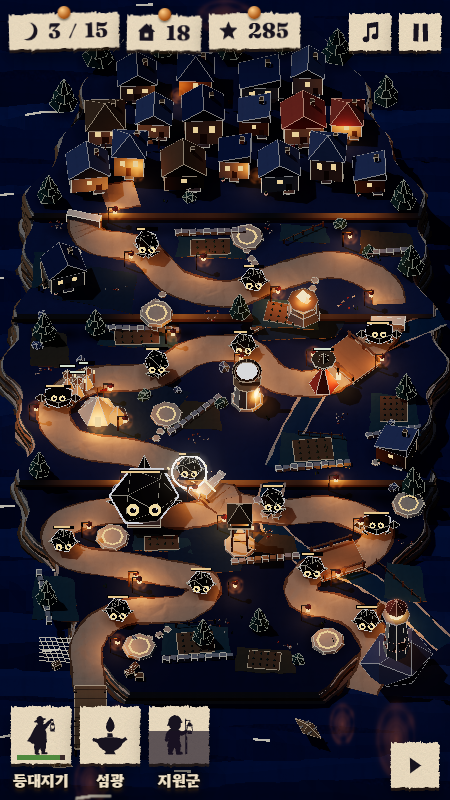
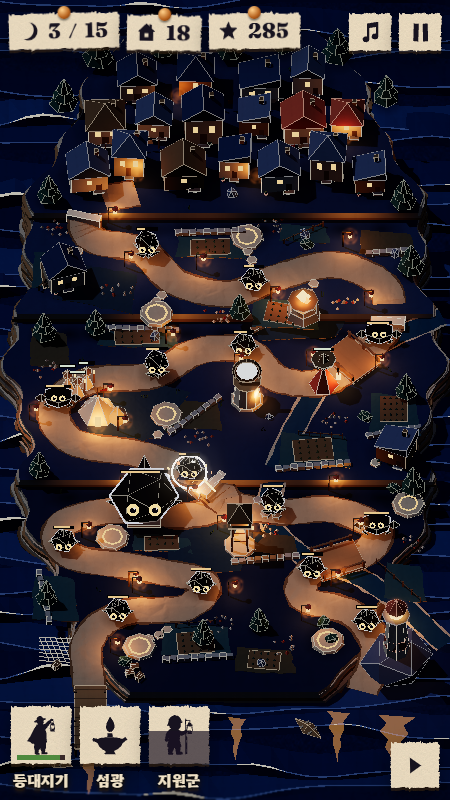
Stage 1 pass 3b: sea reads as stacked folded strips, tapered crests, sliver reflections, larger flowers and stepping stones

diff --git a/src/board.js b/src/board.js
@@ -116,8 +116,8 @@ export async function createStage(frame, SHAPES) {
     for (let i = 1; i < 6; i++) piece(G.box(0.02, 0.2 + (i % 2) * 0.06, 0.2), [C.cream, C.verm, C.creamD][i % 3], x0 + (x1 - x0) * i / 6, y - 0.12, z0 + (z1 - z0) * i / 6, { r: [0, ry, 0], fold: false }); }
   for (const [x, z] of [[-3.6, -13.6], [1.3, -13.5], [4.9, -15.5], [-1.9, -17.6]]) lamp(x, hAt(z) + 0.8, z, 3.4, 4.2);                                         // window light on the village streets
   for (const [x, z, s] of [[-7.2, -12.9, 1.1], [7.3, -12.6, 1.2], [-6.6, -17.6, 1.3], [6.6, -17.9, 1.2], [-5.2, -19.9, 1.4], [0.2, -20.3, 1.3], [4.6, -20.1, 1.4], [-2.6, -20.4, 1.2], [2.4, -20.6, 1.1], [-7.4, -6.6, 1.1], [7.6, -9.6, 1.2], [-7.6, 0.4, 1.0], [7.7, 0.9, 1.1], [-7.3, 6.6, 1.0], [1.4, 7.9, 0.9], [-0.9, 8.6, 1.0], [7.4, -3.6, 1.0], [-1.9, 5.9, 0.9], [0.6, -7.3, 1.0], [-5.3, -6.9, 1.0]]) tree(x, z, s);
-  const stones = (x0, z0, x1, z1) => { const n = Math.round(Math.hypot(x1 - x0, z1 - z0) / 0.42); for (let i = 0; i <= n; i++) { const x = x0 + (x1 - x0) * i / n + (r0() - 0.5) * 0.12, z = z0 + (z1 - z0) * i / n + (r0() - 0.5) * 0.12; if (nearRoad(x, z) > 0.7) piece(G.cyl(0.15, 0.17, 0.05, 6), C.creamD, x, hAt(z) + 0.03, z, { r: [0, r0() * 3, 0], cast: false, crumple: 0.02 }); } };
-  const flowers = (x, z) => { if (nearRoad(x, z) < 1.0) return; for (let i = 0; i < 9; i++) { const a = r0() * 6.283, d = r0() * 0.5; piece(G.oct(0.055), [C.creamD, C.verm, C.cream][i % 3], x + Math.cos(a) * d, hAt(z) + 0.07, z + Math.sin(a) * d * 0.8, { fold: false, cast: false, crumple: 0 }); } };
+  const stones = (x0, z0, x1, z1) => { const n = Math.round(Math.hypot(x1 - x0, z1 - z0) / 0.5); for (let i = 0; i <= n; i++) { const x = x0 + (x1 - x0) * i / n + (r0() - 0.5) * 0.12, z = z0 + (z1 - z0) * i / n + (r0() - 0.5) * 0.12; if (nearRoad(x, z) > 0.7) piece(G.cyl(0.2, 0.23, 0.06, 6), 0xb4aa92, x, hAt(z) + 0.03, z, { r: [0, r0() * 3, 0], cast: false, crumple: 0.02 }); } };
+  const flowers = (x, z) => { if (nearRoad(x, z) < 1.0) return; for (let i = 0; i < 12; i++) { const a = r0() * 6.283, d = 0.1 + r0() * 0.55; piece(G.oct(0.085), [C.cream, C.verm, C.cream, C.creamD][i % 4], x + Math.cos(a) * d, hAt(z) + 0.07, z + Math.sin(a) * d * 0.8, { fold: false, cast: false, crumple: 0 }); } };
   const GRASS = 0x304a52, CROP = 0x4a4436;
   for (const [x, z, w, d, s] of [[-1.2, 8.6, 2.6, 1.8, 41], [1.6, 9.6, 2.2, 1.4, 42], [-7.0, 6.4, 1.6, 2.4, 43], [7.3, 5.6, 1.4, 2.0, 44], [2.0, 3.6, 1.6, 1.2, 45], [-2.6, 3.6, 2.2, 1.0, 46], [3.6, -0.8, 2.6, 1.8, 47], [-1.2, -2.6, 1.8, 1.6, 48], [6.9, -2.6, 1.8, 2.2, 49], [-3.6, -6.6, 3.0, 1.2, 50], [-7.2, -6.0, 1.4, 2.0, 51], [2.4, -7.4, 2.4, 1.6, 52], [-0.6, -10.8, 2.6, 1.2, 53], [6.6, -11.0, 2.0, 1.4, 54], [-7.0, -9.6, 1.6, 2.0, 55], [3.2, -11.5, 1.8, 1.0, 56]])
     patch([[x - w / 2, z - d / 2], [x + w / 2, z - d / 2 + 0.2], [x + w / 2 + 0.2, z + d / 2], [x - w / 2 - 0.1, z + d / 2 - 0.15]], s % 3 ? GRASS : CROP, s);
@@ -180,19 +180,25 @@ export async function createStage(frame, SHAPES) {
     const s = SPOTS[4], a = new THREE.Vector3(s[0], 2.0, s[1]), b = new THREE.Vector3(x, y + 0.7, z), mid = a.clone().lerp(b, 0.6), arrow = piece(G.box(0.06, 0.06, 0.9), glow(2.0, 1.25, 0.4), mid.x, mid.y, mid.z); arrow.lookAt(b); }
 
   // ---------- sea: deep navy paper folded into long bands that overlap and bob; cream only on the top of a fold; faint warm reflections ----------
-  const waves = [];
+  const waves = [], reflections = [];
   { const sea = new THREE.Mesh(new THREE.PlaneGeometry(90, 90), grain(new THREE.MeshLambertMaterial({ color: 0x18274a, map: paper }))); sea.rotation.x = -Math.PI / 2; sea.position.y = -0.95; scene.add(sea);
-    const NAVY = [0x1c2d52, 0x22355c, 0x192848, 0x263a62, 0x1e3056].map(col => grain(new THREE.MeshLambertMaterial({ color: col, map: paper, flatShading: true, side: THREE.DoubleSide }))), crestMat = new THREE.MeshBasicMaterial({ color: new THREE.Color(0.46, 0.44, 0.37), map: paper, side: THREE.DoubleSide });
-    let k = 0; for (let z = Z0 - 9; z < Z1 + 11; z += 1.45, k++) { const pos = [], cp = [], g = new THREE.Group(), ph = k * 2.3, H = x => 0.1 + 0.34 * Math.pow(Math.max(0, Math.sin(x * 0.55 + ph) * 0.6 + Math.sin(x * 1.3 + ph * 2) * 0.4), 1.4), ZO = x => Math.sin(x * 0.35 + ph) * 0.35;
+    const NAVY = [0x1f2f56, 0x273a63, 0x19264a, 0x2e416c, 0x22335b].map(col => grain(new THREE.MeshLambertMaterial({ color: col, map: paper, flatShading: true, side: THREE.DoubleSide }))), crestMat = new THREE.MeshBasicMaterial({ color: new THREE.Color(0.5, 0.48, 0.4), map: paper, side: THREE.DoubleSide }), ridgeMat = new THREE.MeshBasicMaterial({ color: 0x384a74, map: paper, side: THREE.DoubleSide });
+    // each band is one folded strip: a long back slope that catches the moon, a sharp ridge, a short steep face towards the viewer
+    let k = 0; for (let z = Z0 - 9; z < Z1 + 11; z += 1.2 + ((k * 7) % 5) * 0.15, k++) { const pos = [], cp = [], rp = [], g = new THREE.Group(), ph = k * 2.3, H = x => 0.2 + 0.42 * Math.pow(Math.max(0, Math.sin(x * 0.55 + ph) * 0.6 + Math.sin(x * 1.3 + ph * 2) * 0.4), 1.4), ZO = x => Math.sin(x * 0.35 + ph) * 0.4 + Math.sin(x * 0.9 + ph * 1.7) * 0.12;
+      const strip = (out, a, b, f, bk, up) => out.push(a[0], a[1] + up, a[2] + f, b[0], b[1] + up, b[2] + f, a[0], a[1] + up, a[2] - bk, a[0], a[1] + up, a[2] - bk, b[0], b[1] + up, b[2] + f, b[0], b[1] + up, b[2] - bk);
       for (let x = -14; x < 14; x += 0.7) { const x1 = x + 0.7, a = [x, H(x), ZO(x)], b = [x1, H(x1), ZO(x1)];
-        pos.push(a[0], 0, a[2] + 0.95, b[0], 0, b[2] + 0.95, a[0], a[1], a[2], a[0], a[1], a[2], b[0], 0, b[2] + 0.95, b[0], b[1], b[2], a[0], a[1], a[2], b[0], b[1], b[2], a[0], 0, a[2] - 0.85, a[0], 0, a[2] - 0.85, b[0], b[1], b[2], b[0], 0, b[2] - 0.85);
-        if (a[1] > 0.3 && b[1] > 0.3) cp.push(a[0], a[1] + 0.012, a[2] + 0.07, b[0], b[1] + 0.012, b[2] + 0.07, a[0], a[1] + 0.012, a[2] - 0.05, a[0], a[1] + 0.012, a[2] - 0.05, b[0], b[1] + 0.012, b[2] + 0.07, b[0], b[1] + 0.012, b[2] - 0.05); }
+        pos.push(a[0], 0, a[2] + 0.2, b[0], 0, b[2] + 0.2, a[0], a[1], a[2], a[0], a[1], a[2], b[0], 0, b[2] + 0.2, b[0], b[1], b[2], a[0], a[1], a[2], b[0], b[1], b[2], a[0], 0, a[2] - 1.5, a[0], 0, a[2] - 1.5, b[0], b[1], b[2], b[0], 0, b[2] - 1.5);
+        strip(rp, a, b, 0.02, 0.05, 0.01); const wa = Math.min(1, Math.max(0, (a[1] - 0.36) / 0.2)), wb = Math.min(1, Math.max(0, (b[1] - 0.36) / 0.2));
+        if (wa + wb > 0) cp.push(a[0], a[1] + 0.02, a[2] + 0.04 * wa, b[0], b[1] + 0.02, b[2] + 0.04 * wb, a[0], a[1] + 0.02, a[2] - 0.1 * wa, a[0], a[1] + 0.02, a[2] - 0.1 * wa, b[0], b[1] + 0.02, b[2] + 0.04 * wb, b[0], b[1] + 0.02, b[2] - 0.1 * wb); }
       const uvOf = arr => { const u = []; for (let i = 0; i < arr.length; i += 3) u.push(arr[i] * 0.4, arr[i + 2] * 0.4 + arr[i + 1]); return u; };
-      const geo = new THREE.BufferGeometry(); geo.setAttribute('position', new THREE.Float32BufferAttribute(pos, 3)); geo.setAttribute('uv', new THREE.Float32BufferAttribute(uvOf(pos), 2)); geo.computeVertexNormals(); const m = new THREE.Mesh(geo, NAVY[k % 5]); m.receiveShadow = true; g.add(m);
-      if (cp.length) { const cg = new THREE.BufferGeometry(); cg.setAttribute('position', new THREE.Float32BufferAttribute(cp, 3)); cg.setAttribute('uv', new THREE.Float32BufferAttribute(uvOf(cp), 2)); g.add(new THREE.Mesh(cg, crestMat)); }
+      const mk = (arr, mat) => { const geo = new THREE.BufferGeometry(); geo.setAttribute('position', new THREE.Float32BufferAttribute(arr, 3)); geo.setAttribute('uv', new THREE.Float32BufferAttribute(uvOf(arr), 2)); geo.computeVertexNormals(); const m = new THREE.Mesh(geo, mat); g.add(m); return m; };
+      mk(pos, NAVY[k % 5]).receiveShadow = true; if (rp.length) mk(rp, ridgeMat); if (cp.length) mk(cp, crestMat);
       g.position.set(0, -0.92, z); scene.add(g); waves.push({ g, ph: k * 1.3, sp: 0.45 + (k % 3) * 0.14 }); }
-    const refMat = new THREE.MeshBasicMaterial({ map: pLight, color: 0xff9a40, blending: THREE.AdditiveBlending, depthWrite: false, transparent: true, opacity: 0.1 });   // lantern and window light lying faintly on the water
-    for (const [x, z, w, d] of [[7.0, 13.4, 2.2, 5.0], [-5.5, 15.6, 1.8, 3.6], [-4.4, 12.6, 1.4, 2.6], [4.8, 12.6, 1.4, 2.8], [-9.9, -14.5, 1.6, 3.0], [9.9, -14.2, 1.6, 3.0], [9.9, -6.4, 1.3, 2.4], [-9.9, -3.6, 1.3, 2.4], [0, -23.6, 3.0, 2.4]]) { const m = new THREE.Mesh(new THREE.PlaneGeometry(w, d), refMat); m.rotation.x = -Math.PI / 2; m.position.set(x, -0.3, z); m.renderOrder = 2; scene.add(m); } }
+    // lantern and window light on the water: a short column of amber paper slivers running towards the viewer, narrower and dimmer as it goes
+    const reflMat = new THREE.MeshBasicMaterial({ color: new THREE.Color(0.25, 0.12, 0.025), map: paper, blending: THREE.AdditiveBlending, depthWrite: false, transparent: true, side: THREE.DoubleSide });
+    const refl = (x, z, w, len = 6) => { const L = [], R = []; for (let i = 0; i <= len; i++) { const f = 1 - i / len, h = w / 2 * f * (i % 2 ? 0.5 : 1) + 0.02, j = (r0() - 0.5) * 0.12; L.push(new THREE.Vector2(-h + j, i * 0.42)); R.push(new THREE.Vector2(h + j, i * 0.42 + 0.14)); }
+      const m = new THREE.Mesh(new THREE.ShapeGeometry(new THREE.Shape([...L, ...R.reverse()])), reflMat); m.rotation.x = Math.PI / 2; m.position.set(x, -0.2, z); m.renderOrder = 2; scene.add(m); reflections.push({ m, x, ph: r0() * 6 }); };
+    refl(7.0, 12.2, 1.5, 8); refl(-5.5, 13.2, 1.1, 7); refl(-4.4, 12.1, 0.8, 5); refl(4.6, 12.0, 0.9, 6); refl(0.4, 12.3, 0.7, 5); }
 
   // ---------- light: the moon casts the shadows; everything warm is a point light ----------
   scene.add(new THREE.HemisphereLight(0x5c6890, 0x0c0e18, 1.2));
@@ -215,6 +221,7 @@ export async function createStage(frame, SHAPES) {
   const toScreen = (x, y, z) => { _v.set(x, y, z).project(camera); return { x: (_v.x * 0.5 + 0.5) * W, y: (-_v.y * 0.5 + 0.5) * H }; };
   function frameUpdate() { const t = performance.now() * 0.001;
     for (const w of waves) { w.g.position.x = Math.sin(t * w.sp + w.ph) * 0.25; w.g.position.y = -0.92 + Math.sin(t * w.sp * 1.6 + w.ph) * 0.05; }
+    for (const r of reflections) r.m.position.x = r.x + Math.sin(t * 0.9 + r.ph) * 0.06;
     for (const a of lamps) a.l.intensity = a.power * (0.95 + 0.05 * Math.sin(t * 5 + a.ph));
     for (let i = 0; i < rings.length; i++) rings[i].scale.setScalar(1 + 0.07 * Math.sin(t * 2.6 + i));
     if (baked < 3) { moon.shadow.needsUpdate = true; baked++; }
